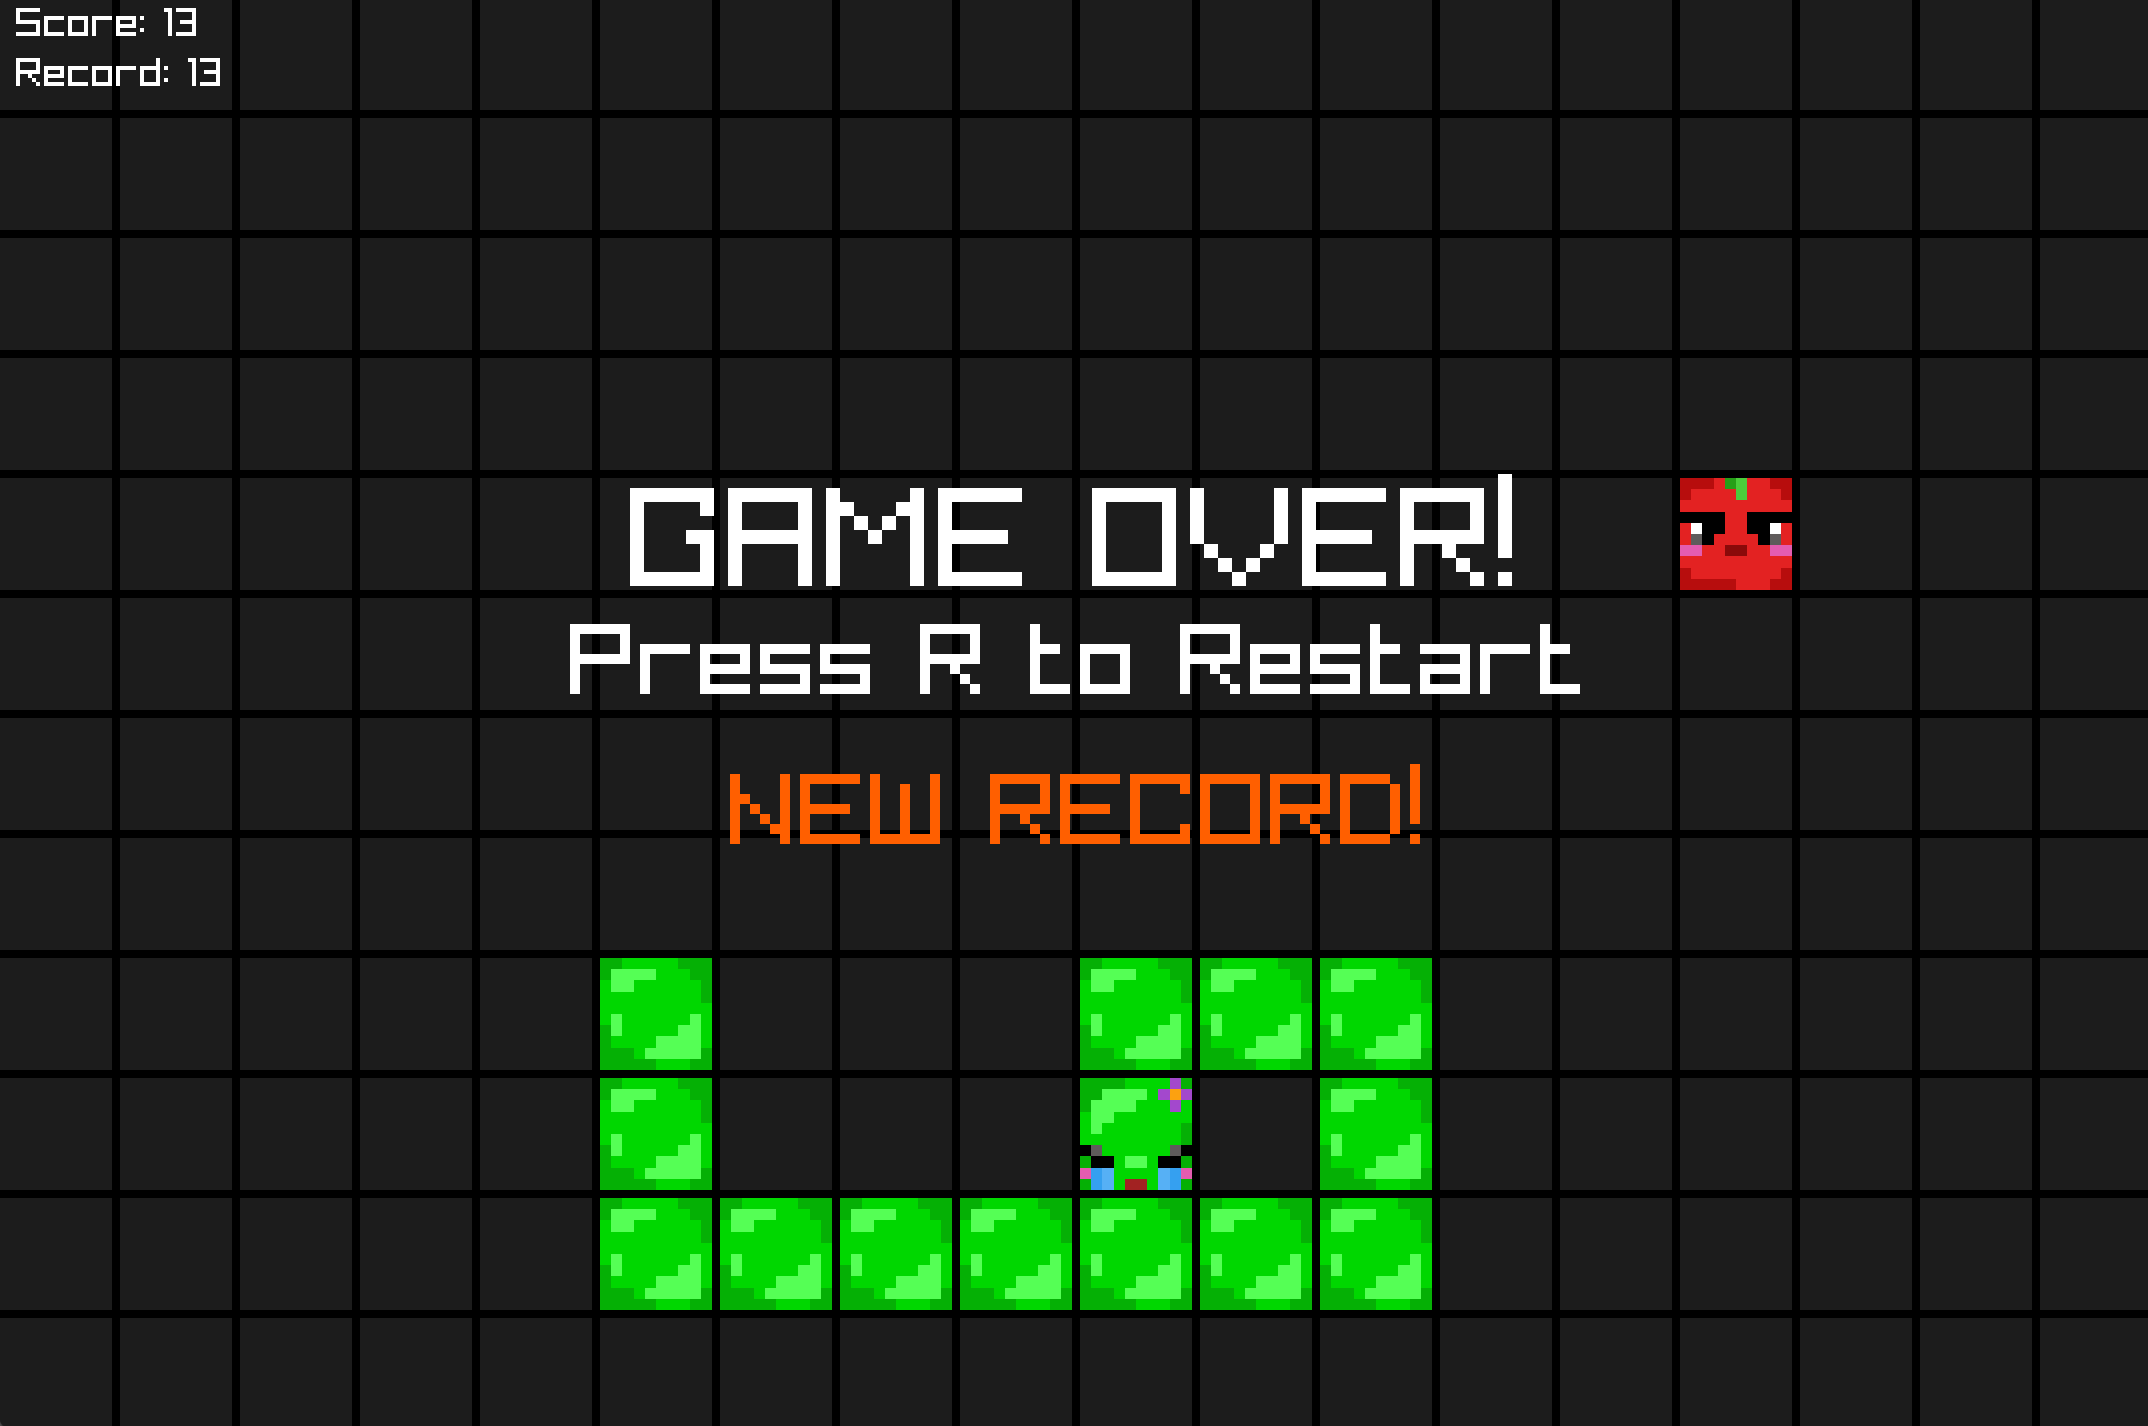
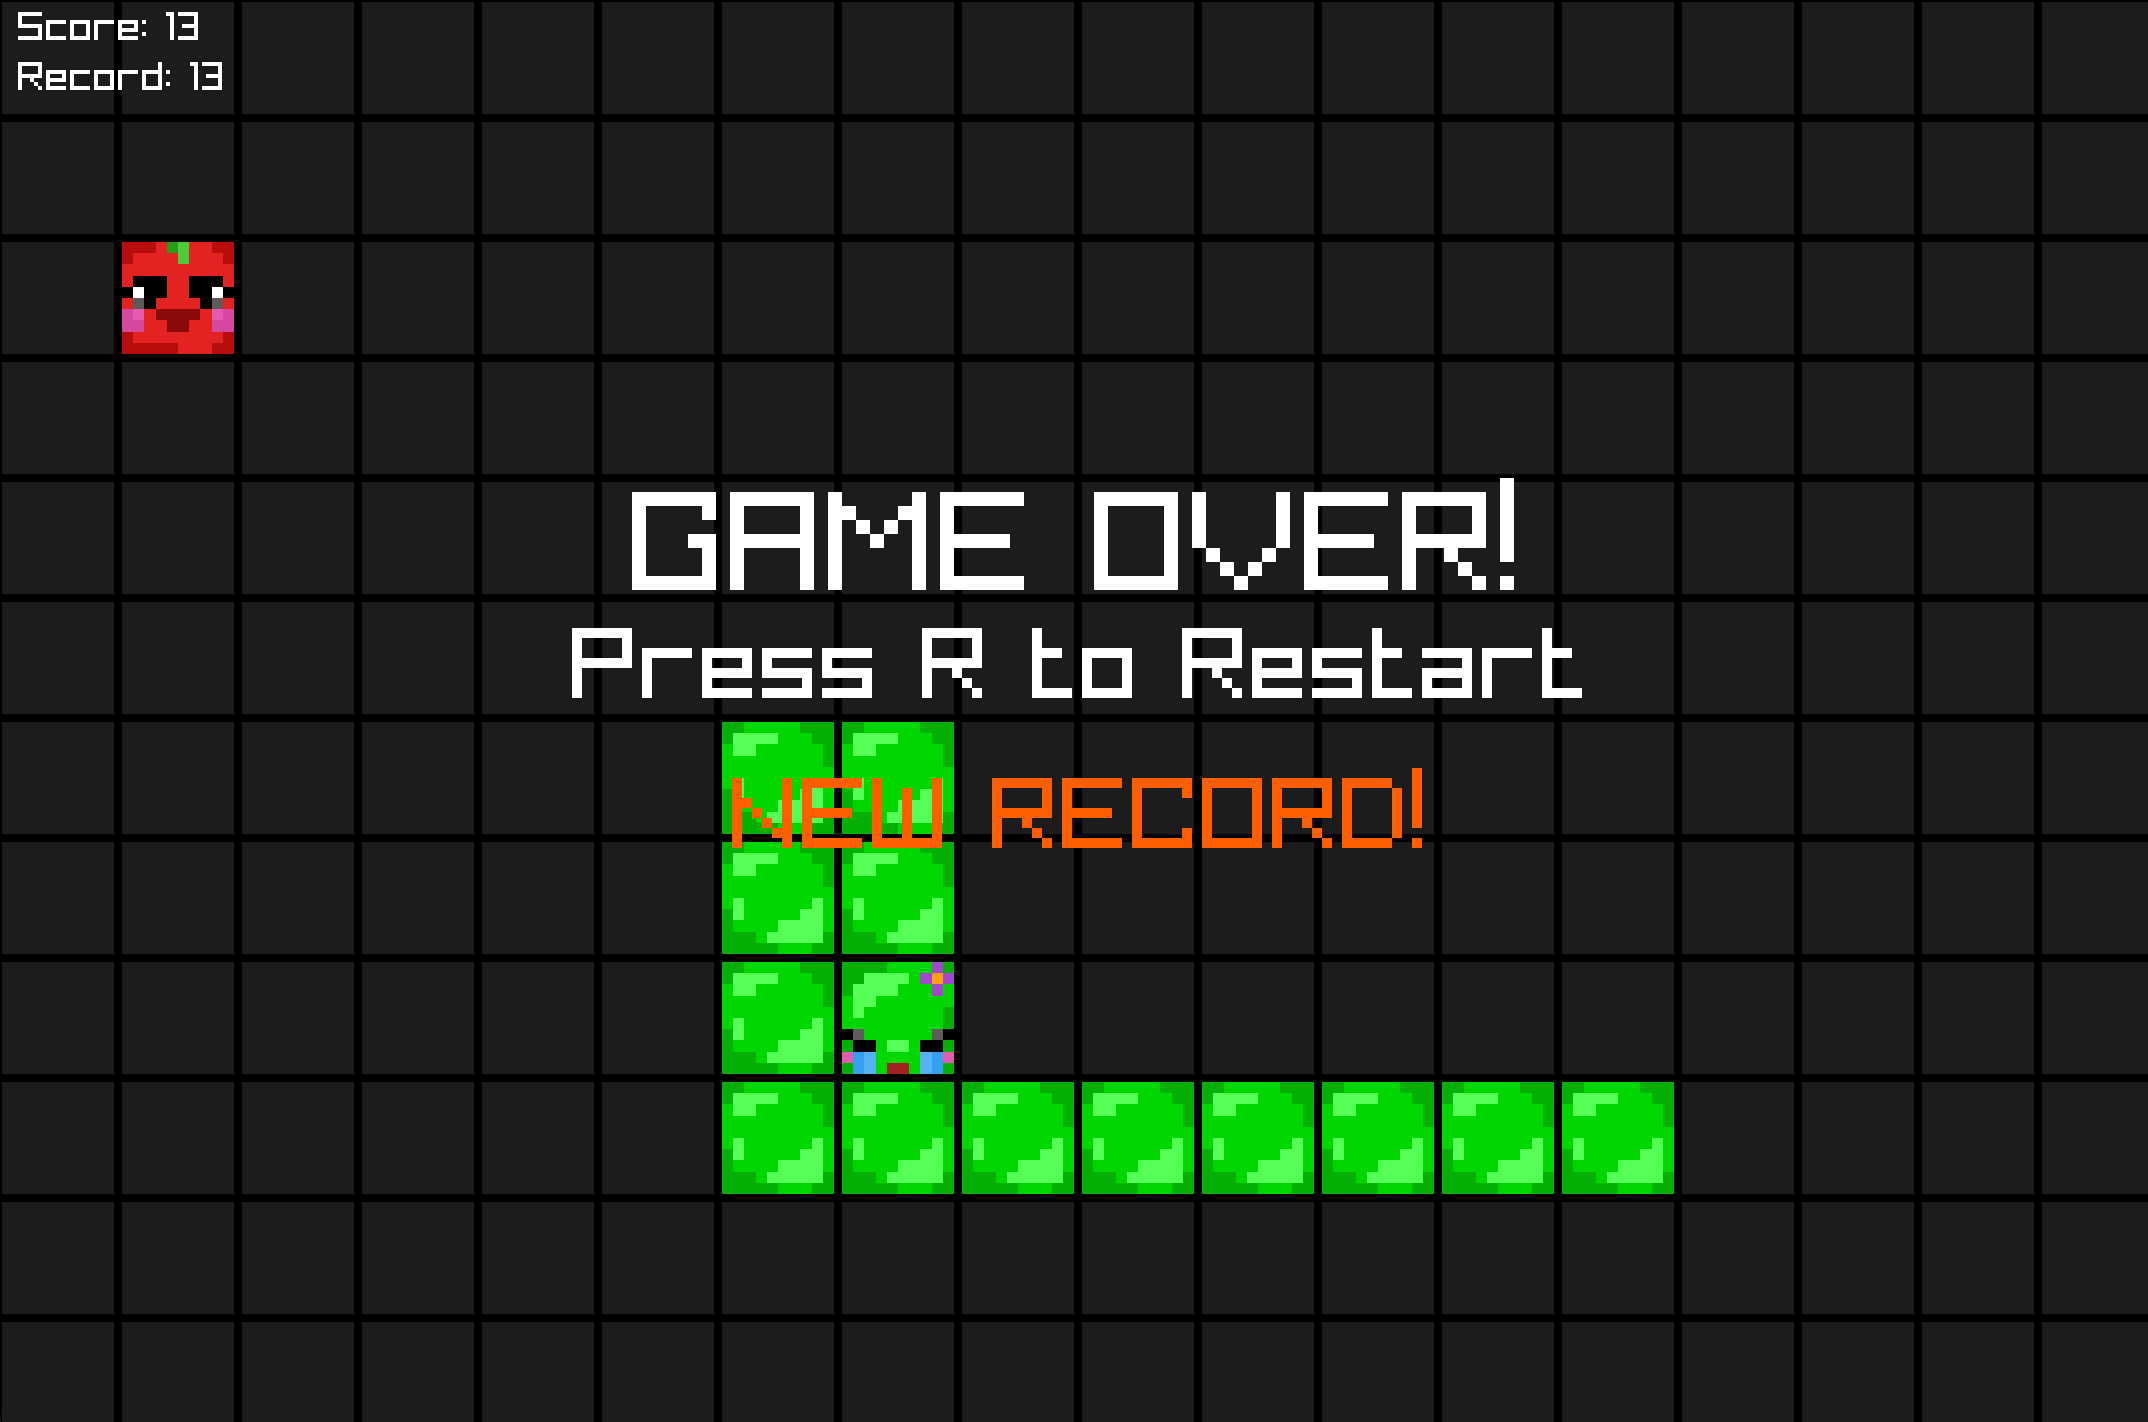
added apple emotion for loss and win, updated README

Changed region(s): [[0.0, 0.3094, 1.0, 0.9283], [0.0, 0.1547, 1.0, 0.2785], [0.0, 0.0, 1.0, 0.0928]]

diff --git a/snake.c b/snake.c
@@ -47,6 +47,7 @@ struct Snake{
     enum Direction prev_direction;
 };
 Texture2D apple_pic;
+Texture2D apple_pic_end;
 Music background_music;
 enum State state;
 int ham_cycle[BOARD_HEIGHT][BOARD_WIDTH] = {0};
@@ -238,6 +239,8 @@ void handle_input(void){
         auto_snake = !auto_snake;
     if (state == START && IsKeyPressed(KEY_ENTER))
         state = PLAY;
+    if (IsKeyPressed(KEY_TAB))
+        state = START;
 }
 
 void update(void){
@@ -313,7 +316,10 @@ void draw_body(void) {
 void draw_apple(void){
     int row = apple / BOARD_WIDTH;
     int col = apple % BOARD_WIDTH;
-    DrawTextureEx(apple_pic, CLITERAL(Vector2){col * CELL_SIZE + 2, row * CELL_SIZE + 2}, 0, (CELL_SIZE - 4) / (float)apple_pic.width, WHITE);
+    if (state == END && state == WIN)
+        DrawTextureEx(apple_pic_end, CLITERAL(Vector2){col * CELL_SIZE + 2, row * CELL_SIZE + 2}, 0, (CELL_SIZE - 4) / (float)apple_pic_end.width, WHITE);
+    else
+        DrawTextureEx(apple_pic, CLITERAL(Vector2){col * CELL_SIZE + 2, row * CELL_SIZE + 2}, 0, (CELL_SIZE - 4) / (float)apple_pic.width, WHITE);
 }
 
 void render(void){ 
@@ -361,6 +367,7 @@ int main(void){
     LOAD_IMAGE(snake.dead_head, "./source/textures/snake_head_dead.png");
     LOAD_IMAGE(snake.body_layer, "./source/textures/snake_body.png");
     LOAD_IMAGE(apple_pic, "./source/textures/apple.png");
+    LOAD_IMAGE(apple_pic_end, "./source/textures/apple_end.png");
 
     LOAD_SOUND(snake.eat, "./source/sounds/eat.wav");
     LOAD_SOUND(snake.dead, "./source/sounds/dead.wav");
@@ -395,6 +402,7 @@ int main(void){
     UnloadTexture(snake.dead_head);
     UnloadTexture(snake.body_layer);
     UnloadTexture(apple_pic);
+    UnloadTexture(apple_pic_end);
 
     UnloadSound(snake.eat);
     UnloadSound(snake.dead);
@@ -407,3 +415,5 @@ int main(void){
     
     return 0;
 }
+
+//эмоция змеи во время еды [ ]

diff --git a/README.md b/README.md
@@ -1,6 +1,6 @@
 # Snake Game (C + Raylib)
 
-В этом репозитории представлена простая, красочная и быстрая реализация классической игры **Snake** с графическим интерфейсом на **C** с использованием **[Raylib](https://www.raylib.com/)**. Игра поддерживает текстуры, паузу, ручное управление клавишами, стартовый экран с инструкциями и автоматический режим, использующий гамильтонов цикл.
+В этом репозитории представлена простая, красочная и быстрая реализация классической игры **Snake** с графическим интерфейсом на **C** с использованием **[Raylib](https://www.raylib.com/)**. Игра поддерживает текстуры, звуки, паузу, ручное управление клавишами, стартовый экран с инструкциями и автоматический режим, использующий гамильтонов цикл.
 
 ## Содержание
 
@@ -13,7 +13,7 @@
     - [Автопилот по циклу Гамильтона](#автопилот-по-циклу-гамильтона)
     - [Экран окончания игры при достижении нового рекорда](#экран-окончания-игры-при-достижении-нового-рекорда)
   - [Запуск](#запуск)
-    - [Зависимости](#зависимости)
+    - [Требования](#требования)
     - [Установка Raylib для Linux](#установка-raylib-для-linux)
     - [Сборка](#сборка)
     - [Запуск](#запуск-1)
@@ -23,14 +23,12 @@
   - [Планы на будущее](#планы-на-будущее)
 
 ## Особенности
-- Графический интерфейс с текстурами
-- Управление клавишами **WASD** или **стрелками**
-- Автоматический режим движения змейки (`B`)
-- Пауза (`SPACE`)
-- Перезапуск (`R`)
-- Подсчёт очков и отображение **рекорда**
-- Надпись `NEW RECORD!` при достижении нового рекорда
-- Гамильтонов цикл для обхода поля в автоматическом режиме
+- Полный игровой цикл: старт → игра → победа/поражение → перезапуск.
+- Автопилот на основе **Гамильтонова цикла**.
+- Графика с текстурами головы, тела и яблока.
+- Звуковые эффекты: поедание, поражение, победа.
+- Фоновая музыка `.mp3`.
+- Отображение текущего счёта и рекорда.
 ## Скриншоты
 ### Стартовый экран с инструкцией
 ![screenshot](./screenshots/gameplay1.png)
@@ -43,11 +41,10 @@
 
 ## Запуск
 
-### Зависимости
-
-- [Raylib](https://github.com/raysan5/raylib)
-- GCC или Clang (например, `gcc`, `clang`)
-- macOS / Linux (текущая сборка настроена под macOS)
+### Требования
+- [Raylib](https://github.com/raysan5/raylib) —  графика и звук. 
+- GCC или Clang (например, `gcc`, `clang`).
+- macOS / Linux (текущая сборка настроена под macOS).
 ###  Установка Raylib для Linux
 
 ```bash
@@ -84,6 +81,7 @@ gcc snake.c -o snake \
 | `R`         | Перезапуск игры                   |
 | `B`         | Включить / выключить автопилот    |
 | `ESC`       | Выход из игры                     |
+| `TAB`       | Стартовый экран                   |
 
 ## Автопилот
 
@@ -92,25 +90,15 @@ gcc snake.c -o snake \
 ## Структура проекта
 
 - **snake-game/**
-  - **textures/** — папка с текстурами змеи и яблока
-    - `snake_head_final.png` — текстура головы змеи
-    - `snake_head_dead.png` — текстура мёртвой головы змеи
-    - `snake_body.png` — текстура тела змеи
-    - `apple.png` — текстура яблока
-  - **screenshots/** — скриншоты игрового процесса
-    - `gameplay1.png` — cтартовый экран с инструкцией
-    - `gameplay2.png` — ручное управление
-    - `gameplay3.png` — автопилот по циклу Гамильтона
-    - `gameplay4.png` — экран окончания игры
-  - `snake.c` — основной исходный код игры
-  - `Makefile` — файл сборки проекта с флагами компиляции
-  - `README.md` — описание и инструкция по запуску
-
-
+  - **source/**
+    - **textures/** —  текстуры змеи и яблока.
+    - **sounds/** —  звуки: eat, dead, win + фоновая музыка.
+  - **screenshots/** — скриншоты игрового процесса.
+  - `snake.c` — основной исходный код игры.
+  - `makefile` — файл сборки проекта с флагами компиляции.
+  - `README.md` — описание проекта и инструкция по запуску.
 
 ## Планы на будущее
-	•	Звуки для еды и столкновения
-	•	Анимация смерти змеи
-	•	Оптимизация автопилота (расширение за рамки цикла)
-	•	Поддержка highscore
-	•	Добавить эффекты: мигание, вспышки и т.п.
+	•	Добавить анимацию.
+	•	Оптимизация автопилота (расширение за рамки цикла).
+	•	Поддержка highscore.
